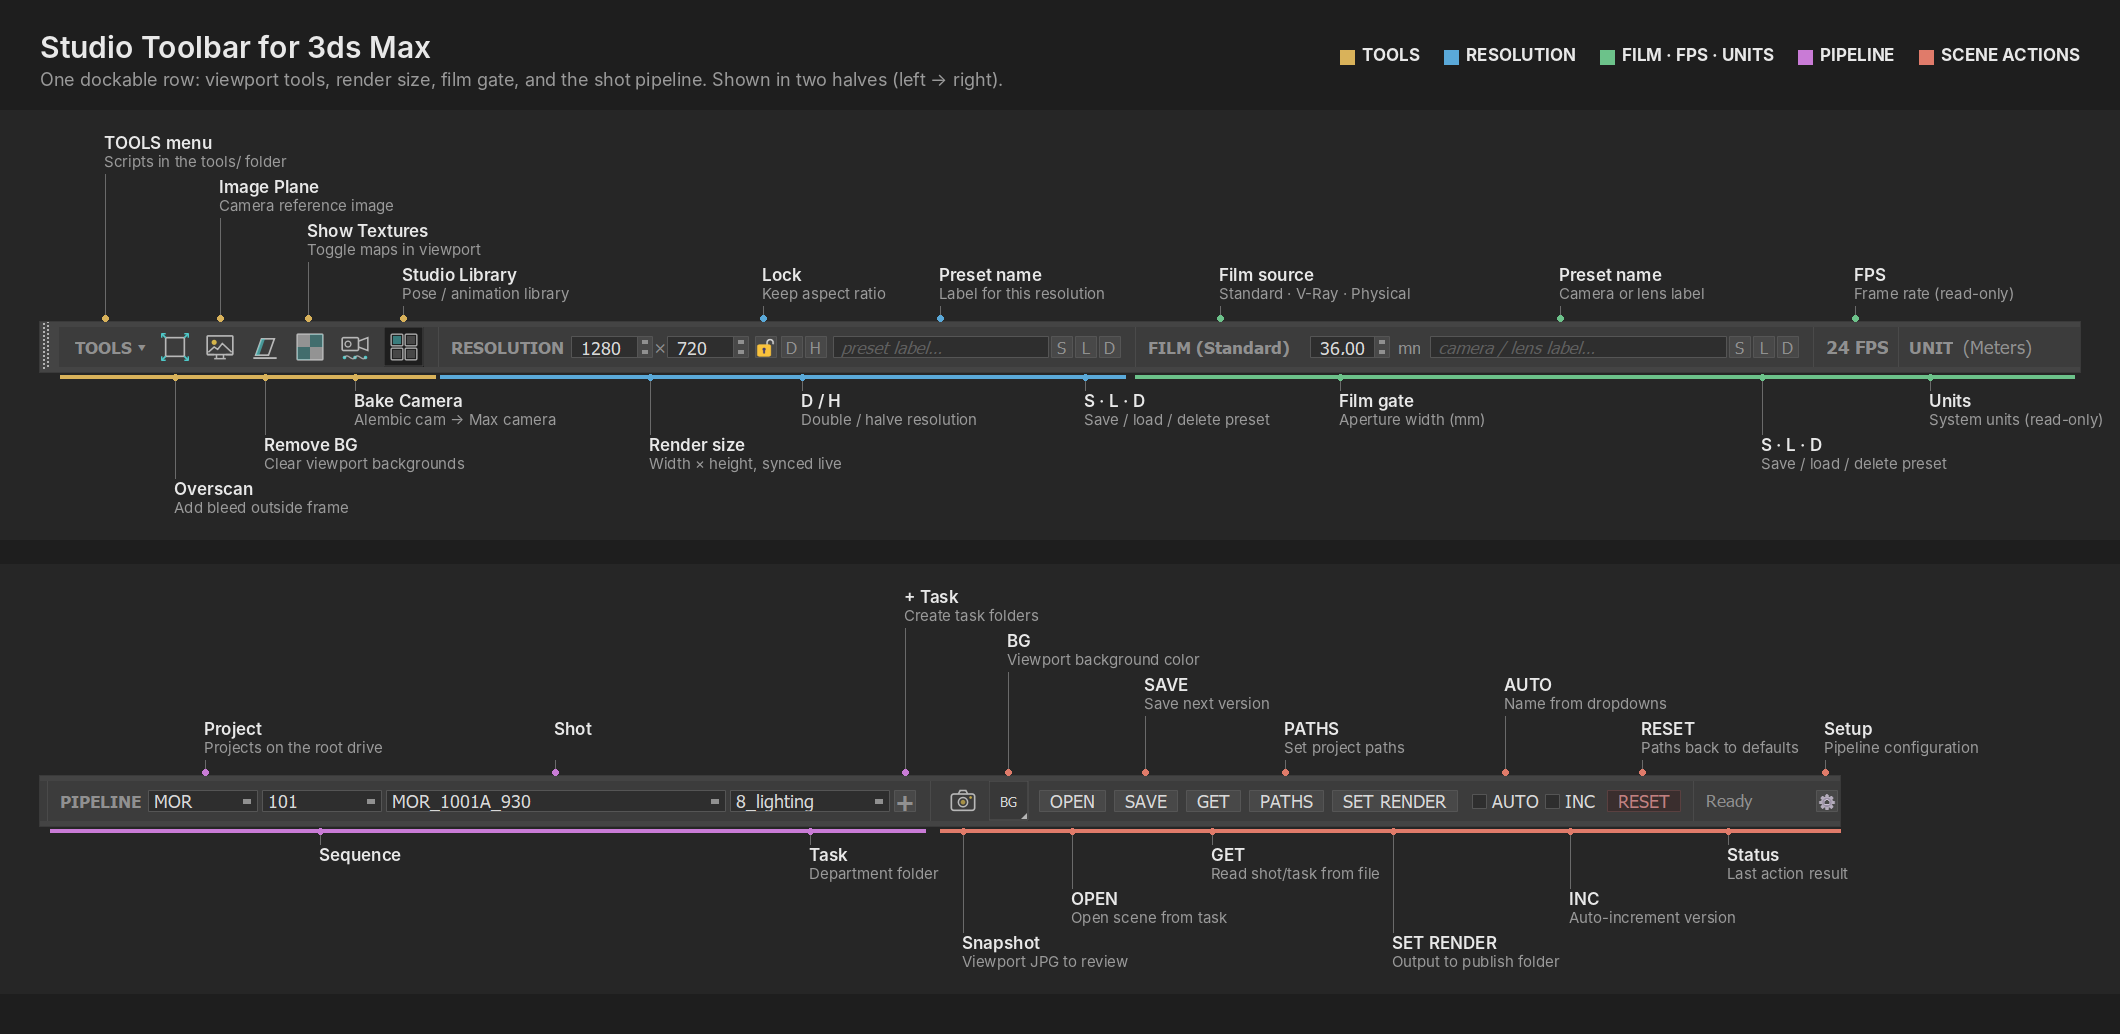
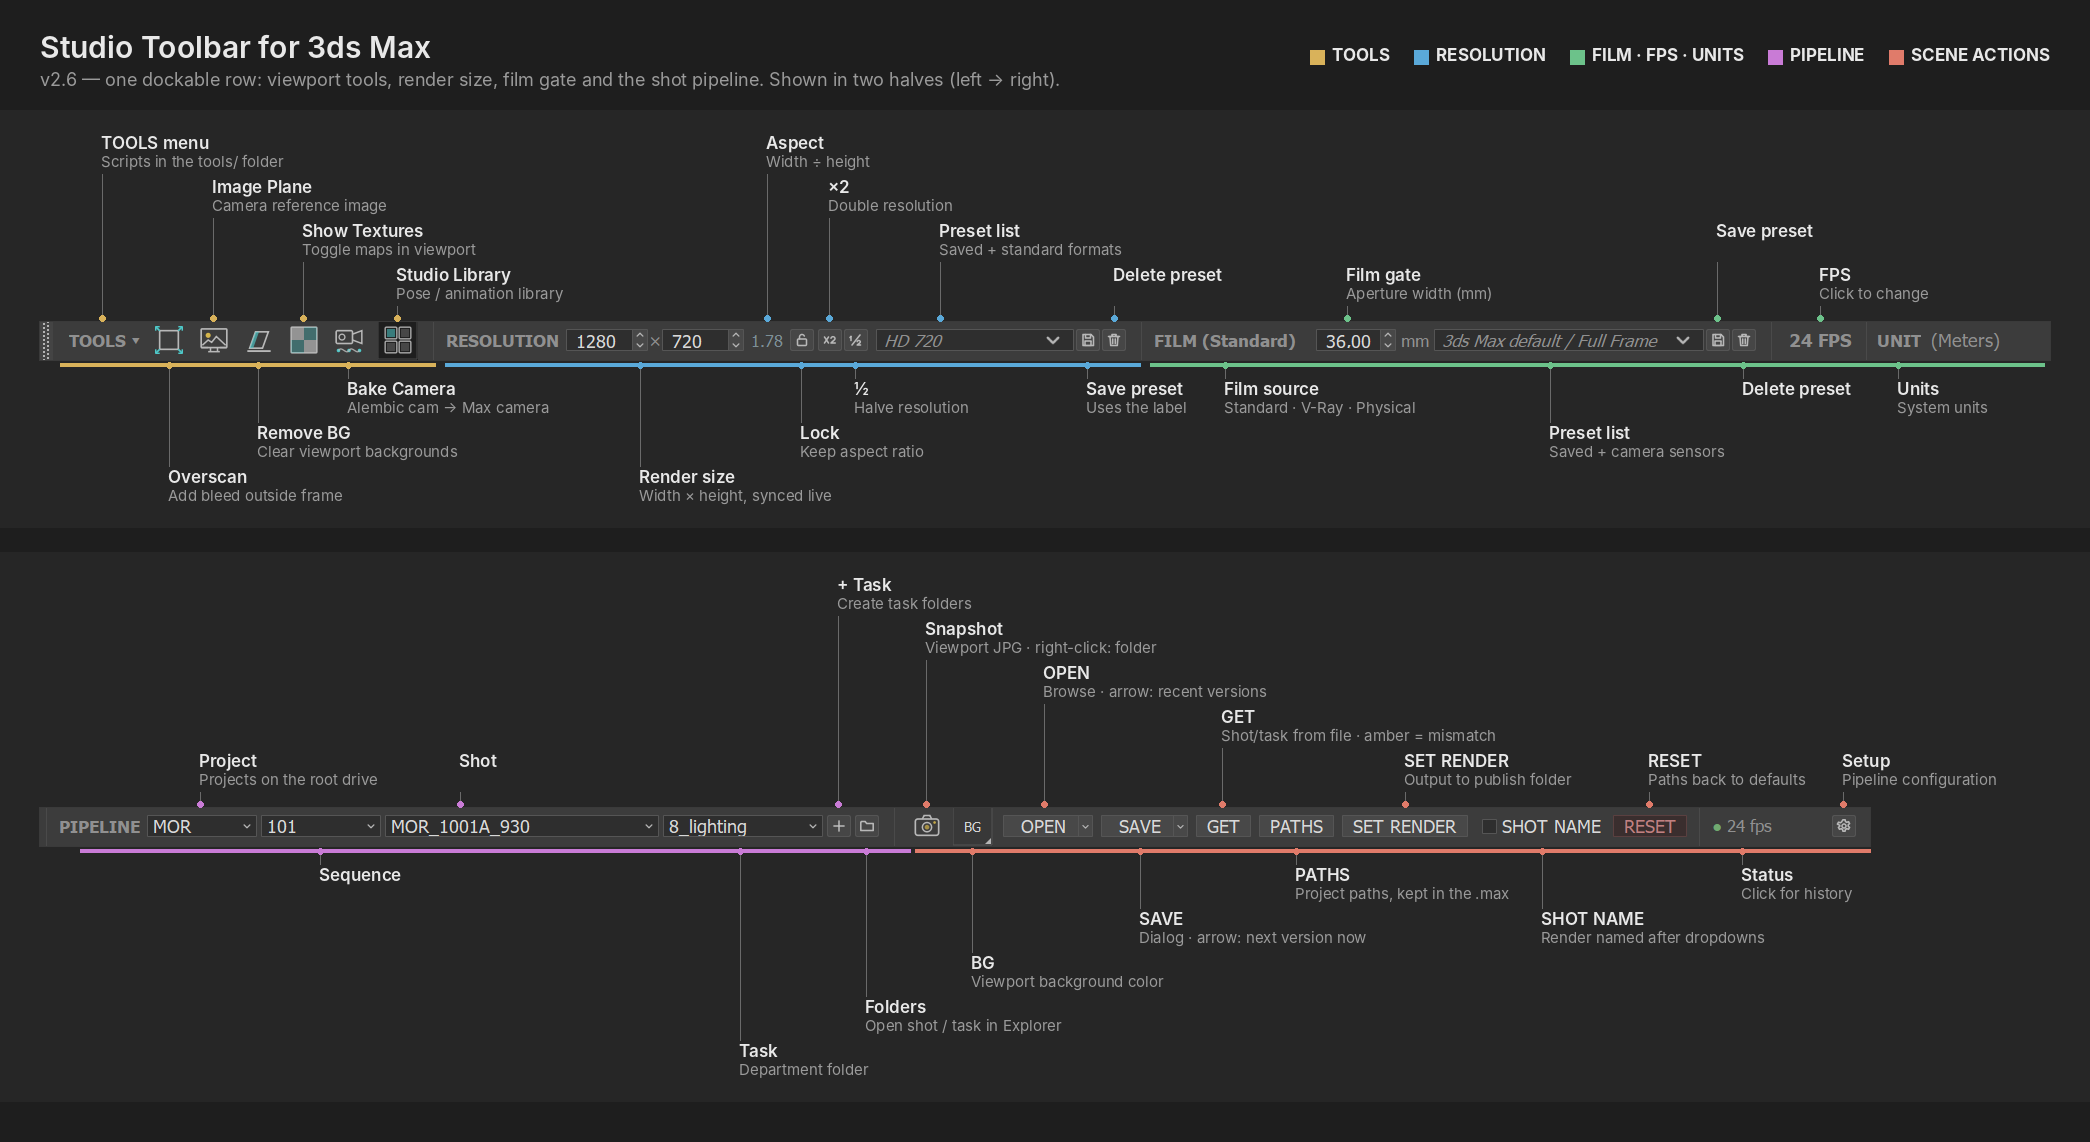
docs: annotated screenshot for the v2.6 toolbar
Regenerated from the new raw capture; callouts updated for the new
controls (aspect, ×2/½, preset lists, folder button, OPEN/SAVE menus,
SHOT NAME, clickable FPS and status history).

Claude-Session: https://claude.ai/code/session_018PXZmhFss2GFXULfjsc9YK

diff --git a/docs/annotate_screenshot.py b/docs/annotate_screenshot.py
@@ -1,6 +1,7 @@
 """Builds docs/screenshot.png from docs/screenshot_raw.png: toolbar split in two rows with English callouts.
 Usage:  python docs/annotate_screenshot.py docs/screenshot_raw.png docs/screenshot.png
-Callout x-positions are measured on a 3840 px wide capture — update LEFT/RIGHT if the layout changes."""
+Callout x-positions are measured on a 3840 px wide capture — update LEFT/RIGHT and ROW_Y0/ROW_Y1 if the layout changes.
+Needs the Inter font (any OpenType path works — edit F)."""
 import sys
 from PIL import Image, ImageDraw, ImageFont
 
@@ -16,55 +17,60 @@ BG, PANEL, TXT, DIM, LINE, ACC = "#1e1e1e", "#262626", "#e8e8e8", "#9a9a9a", "#6
 SECT = ["#d9b25a", "#5aa9d9", "#6cc28a", "#c97bd6", "#e07b6a"]
 
 src = Image.open(SRC).convert("RGB")
-row = src.crop((0, 130, 3840, 180))            # toolbar strip, native resolution
+ROW_Y0, ROW_Y1 = 124, 162                      # toolbar strip in the raw capture (v2.6 layout)
+row = src.crop((0, ROW_Y0, 3840, ROW_Y1))
 HALF = 1920
-STRIP_H, BAND, PAD = 50, 150, 40
+STRIP_H, BAND, PAD = ROW_Y1 - ROW_Y0, 150, 40
 TIER = 44                                       # vertical step between label tiers
 
-# (x within half, label, description, band "t"/"b", section index)
+# (x in the 3840 capture — right list measured from 1920, label, description, band "t"/"b", section)
 LEFT = [
-    (65,   "TOOLS menu",     "Scripts in the tools/ folder",    "t", 0),
-    (135,  "Overscan",       "Add bleed outside frame",      "b", 0),
-    (180,  "Image Plane",    "Camera reference image",       "t", 0),
-    (225,  "Remove BG",      "Clear viewport backgrounds",   "b", 0),
-    (268,  "Show Textures",  "Toggle maps in viewport",      "t", 0),
-    (315,  "Bake Camera",    "Alembic cam → Max camera",     "b", 0),
-    (363,  "Studio Library", "Pose / animation library",     "t", 0),
-    (610,  "Render size",    "Width × height, synced live",  "b", 1),
-    (723,  "Lock",           "Keep aspect ratio",            "t", 1),
-    (762,  "D / H",          "Double / halve resolution",    "b", 1),
-    (900,  "Preset name",    "Label for this resolution",    "t", 1),
-    (1045, "S · L · D",      "Save / load / delete preset",  "b", 1),
-    (1180, "Film source",    "Standard · V-Ray · Physical",  "t", 2),
-    (1300, "Film gate",      "Aperture width (mm)",          "b", 2),
-    (1520, "Preset name",    "Camera or lens label",         "t", 2),
-    (1722, "S · L · D",      "Save / load / delete preset",  "b", 2),
-    (1815, "FPS",            "Frame rate (read-only)",             "t", 2),
-    (1890, "Units",          "System units (read-only)",     "b", 2),
+    (62,   "TOOLS menu",     "Scripts in the tools/ folder",      "t", 0),
+    (129,  "Overscan",       "Add bleed outside frame",           "b", 0),
+    (173,  "Image Plane",    "Camera reference image",            "t", 0),
+    (218,  "Remove BG",      "Clear viewport backgrounds",        "b", 0),
+    (263,  "Show Textures",  "Toggle maps in viewport",           "t", 0),
+    (308,  "Bake Camera",    "Alembic cam → Max camera",          "b", 0),
+    (357,  "Studio Library", "Pose / animation library",          "t", 0),
+    (600,  "Render size",    "Width × height, synced live",       "b", 1),
+    (727,  "Aspect",         "Width ÷ height",                    "t", 1),
+    (761,  "Lock",           "Keep aspect ratio",                 "b", 1),
+    (789,  "×2",             "Double resolution",                 "t", 1),
+    (815,  "½",              "Halve resolution",                  "b", 1),
+    (900,  "Preset list",    "Saved + standard formats",          "t", 1),
+    (1047, "Save preset",    "Uses the label",                    "b", 1),
+    (1074, "Delete preset",  "",                                  "t", 1),
+    (1185, "Film source",    "Standard · V-Ray · Physical",       "b", 2),
+    (1307, "Film gate",      "Aperture width (mm)",               "t", 2),
+    (1510, "Preset list",    "Saved + camera sensors",            "b", 2),
+    (1677, "Save preset",    "",                                  "t", 2),
+    (1703, "Delete preset",  "",                                  "b", 2),
+    (1780, "FPS",            "Click to change",                   "t", 2),
+    (1858, "Units",          "System units",                      "b", 2),
 ]
 RIGHT = [
-    (285,  "Project",        "Projects on the root drive",   "t", 3),
-    (400,  "Sequence",       "",                             "b", 3),
-    (635,  "Shot",           "",                             "t", 3),
-    (890,  "Task",           "Department folder",            "b", 3),
-    (985,  "+ Task",         "Create task folders",          "t", 3),
-    (1043, "Snapshot",       "Viewport JPG to review",       "b", 4),
-    (1088, "BG",             "Viewport background color",    "t", 4),
-    (1152, "OPEN",           "Open scene from task",         "b", 4),
-    (1225, "SAVE",           "Save next version",            "t", 4),
-    (1292, "GET",            "Read shot/task from file",     "b", 4),
-    (1365, "PATHS",          "Set project paths",            "t", 4),
-    (1473, "SET RENDER",     "Output to publish folder",     "b", 4),
-    (1585, "AUTO",           "Name from dropdowns",          "t", 4),
-    (1650, "INC",            "Auto-increment version",       "b", 4),
-    (1722, "RESET",          "Paths back to defaults",       "t", 4),
-    (1808, "Status",         "Last action result",                             "b", 4),
-    (1905, "Setup",          "Pipeline configuration",       "t", 4),
+    (250,  "Project",        "Projects on the root drive",        "t", 3),
+    (370,  "Sequence",       "",                                  "b", 3),
+    (510,  "Shot",           "",                                  "t", 3),
+    (790,  "Task",           "Department folder",                 "b", 3),
+    (888,  "+ Task",         "Create task folders",               "t", 3),
+    (916,  "Folders",        "Open shot / task in Explorer",      "b", 3),
+    (976,  "Snapshot",       "Viewport JPG · right-click: folder","t", 4),
+    (1022, "BG",             "Viewport background color",         "b", 4),
+    (1094, "OPEN",           "Browse · arrow: recent versions",   "t", 4),
+    (1190, "SAVE",           "Dialog · arrow: next version now",  "b", 4),
+    (1272, "GET",            "Shot/task from file · amber = mismatch", "t", 4),
+    (1346, "PATHS",          "Project paths, kept in the .max",   "b", 4),
+    (1455, "SET RENDER",     "Output to publish folder",          "t", 4),
+    (1592, "SHOT NAME",      "Render named after dropdowns",      "b", 4),
+    (1699, "RESET",          "Paths back to defaults",            "t", 4),
+    (1792, "Status",         "Click for history",                 "b", 4),
+    (1893, "Setup",          "Pipeline configuration",            "t", 4),
 ]
-SECTIONS_L = [(20, 395, "TOOLS", 0), (400, 1085, "RESOLUTION", 1), (1095, 1920, "FILM · FPS · UNITS", 2)]
-SECTIONS_R = [(130, 1005, "PIPELINE", 3), (1020, 1920, "SCENE ACTIONS", 4)]
+SECTIONS_L = [(20, 395, "TOOLS", 0), (405, 1100, "RESOLUTION", 1), (1110, 1920, "FILM · FPS · UNITS", 2)]
+SECTIONS_R = [(130, 960, "PIPELINE", 3), (965, 1920, "SCENE ACTIONS", 4)]
 
-SPLIT = 2040                                    # cut just before PIPELINE, keeps "UNIT (Meters)" together
+SPLIT = 2010                                    # cut just before PIPELINE, keeps "UNIT (Meters)" together
 
 def text_w(t, f): return f.getbbox(t)[2] if t else 0
 
@@ -125,7 +131,7 @@ def panel(items, sections, strip):
 shift = SPLIT - HALF                              # right-half coordinates were measured from 1920
 RIGHT = [(x - shift, *r) for x, *r in RIGHT]
 SECTIONS_R = [(a - shift, b - shift, n, c) for a, b, n, c in SECTIONS_R]
-SECTIONS_L[-1] = (1095, SPLIT - 6, "FILM · FPS · UNITS", 2)
+SECTIONS_L[-1] = (1110, SPLIT - 6, "FILM · FPS · UNITS", 2)
 pL = panel(LEFT, SECTIONS_L, row.crop((0, 0, SPLIT, STRIP_H)))
 pR = panel(RIGHT, SECTIONS_R, row.crop((SPLIT, 0, 3840, STRIP_H)))
 
@@ -136,7 +142,7 @@ W = pL.width
 out = Image.new("RGB", (W, HEAD + pL.height + 24 + pR.height + 40), BG)
 d = ImageDraw.Draw(out)
 d.text((PAD, 28), "Studio Toolbar for 3ds Max", font=f_title, fill=TXT)
-d.text((PAD, 68), "One dockable row: viewport tools, render size, film gate, and the shot pipeline. "
+d.text((PAD, 68), "v2.6 — one dockable row: viewport tools, render size, film gate and the shot pipeline. "
                   "Shown in two halves (left → right).", font=f_sub, fill=DIM)
 lx = W - PAD
 for name, ci in reversed(legend):
